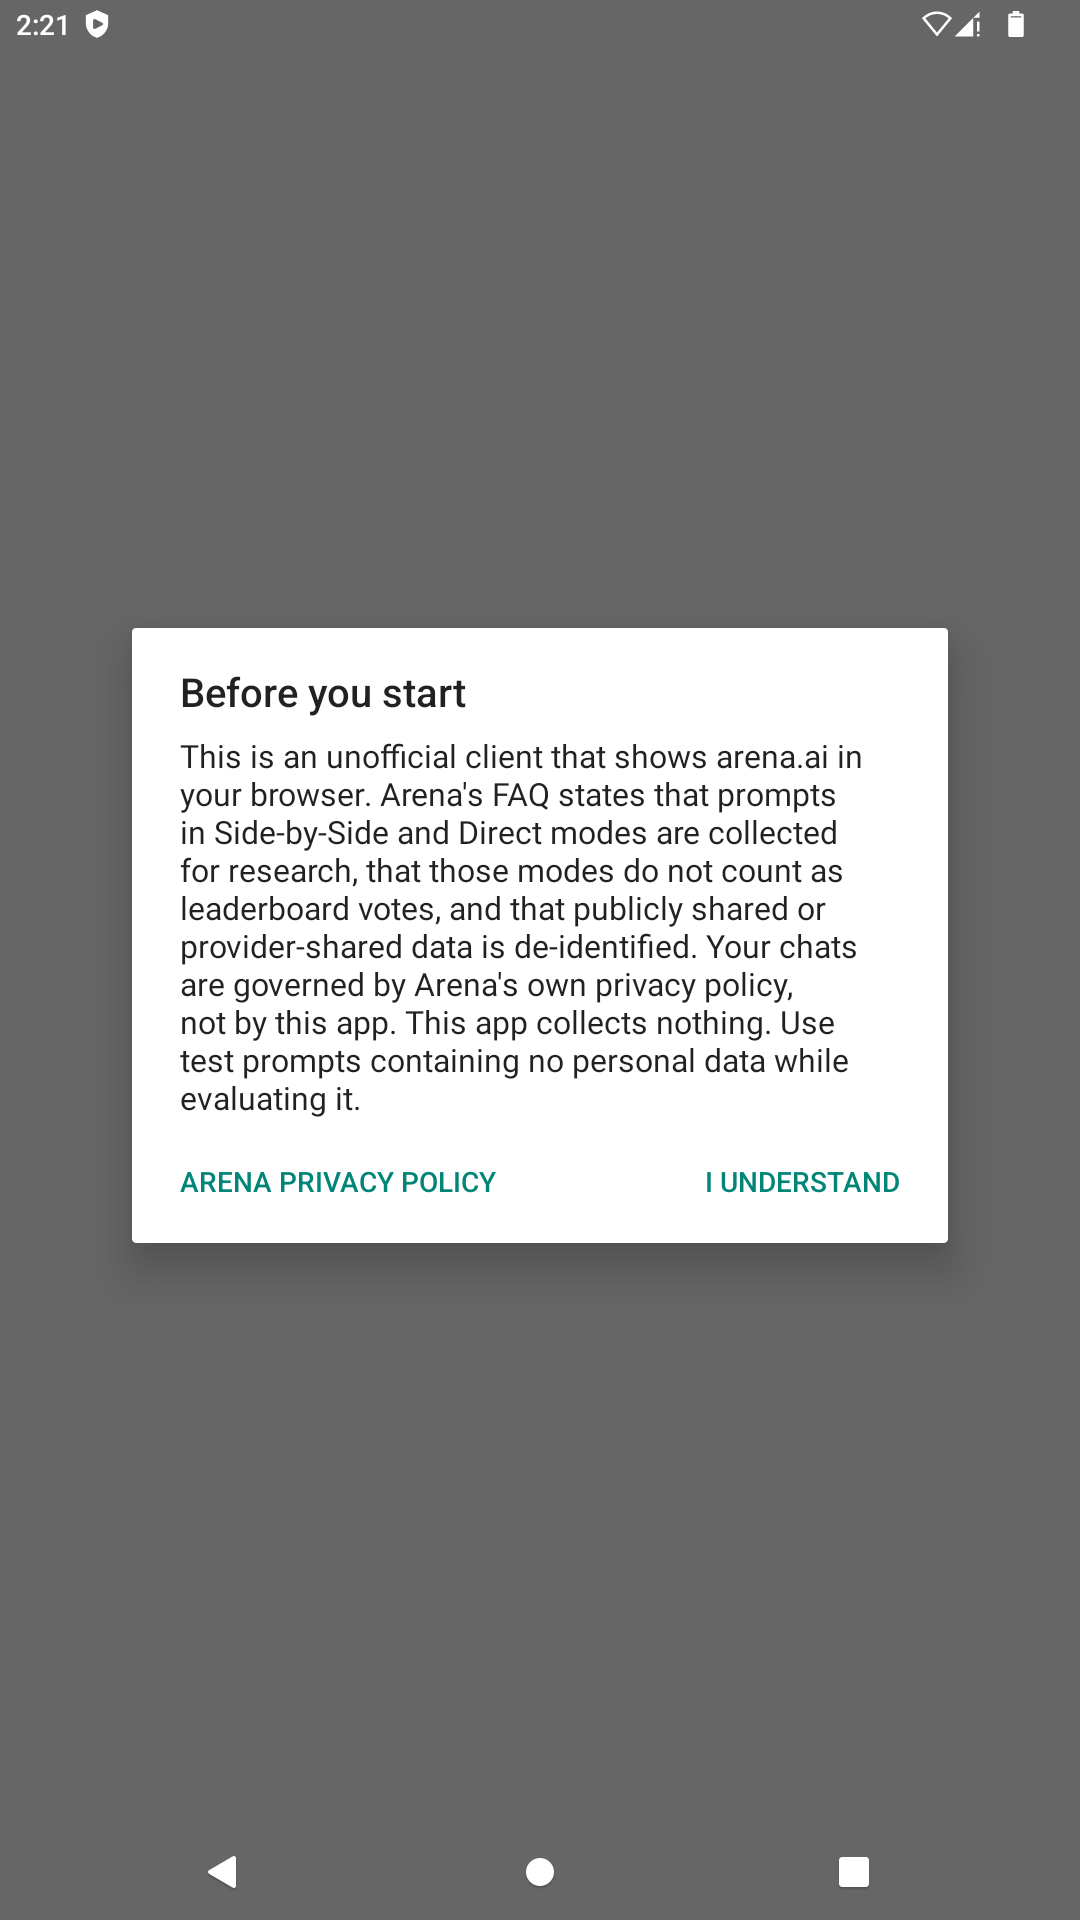
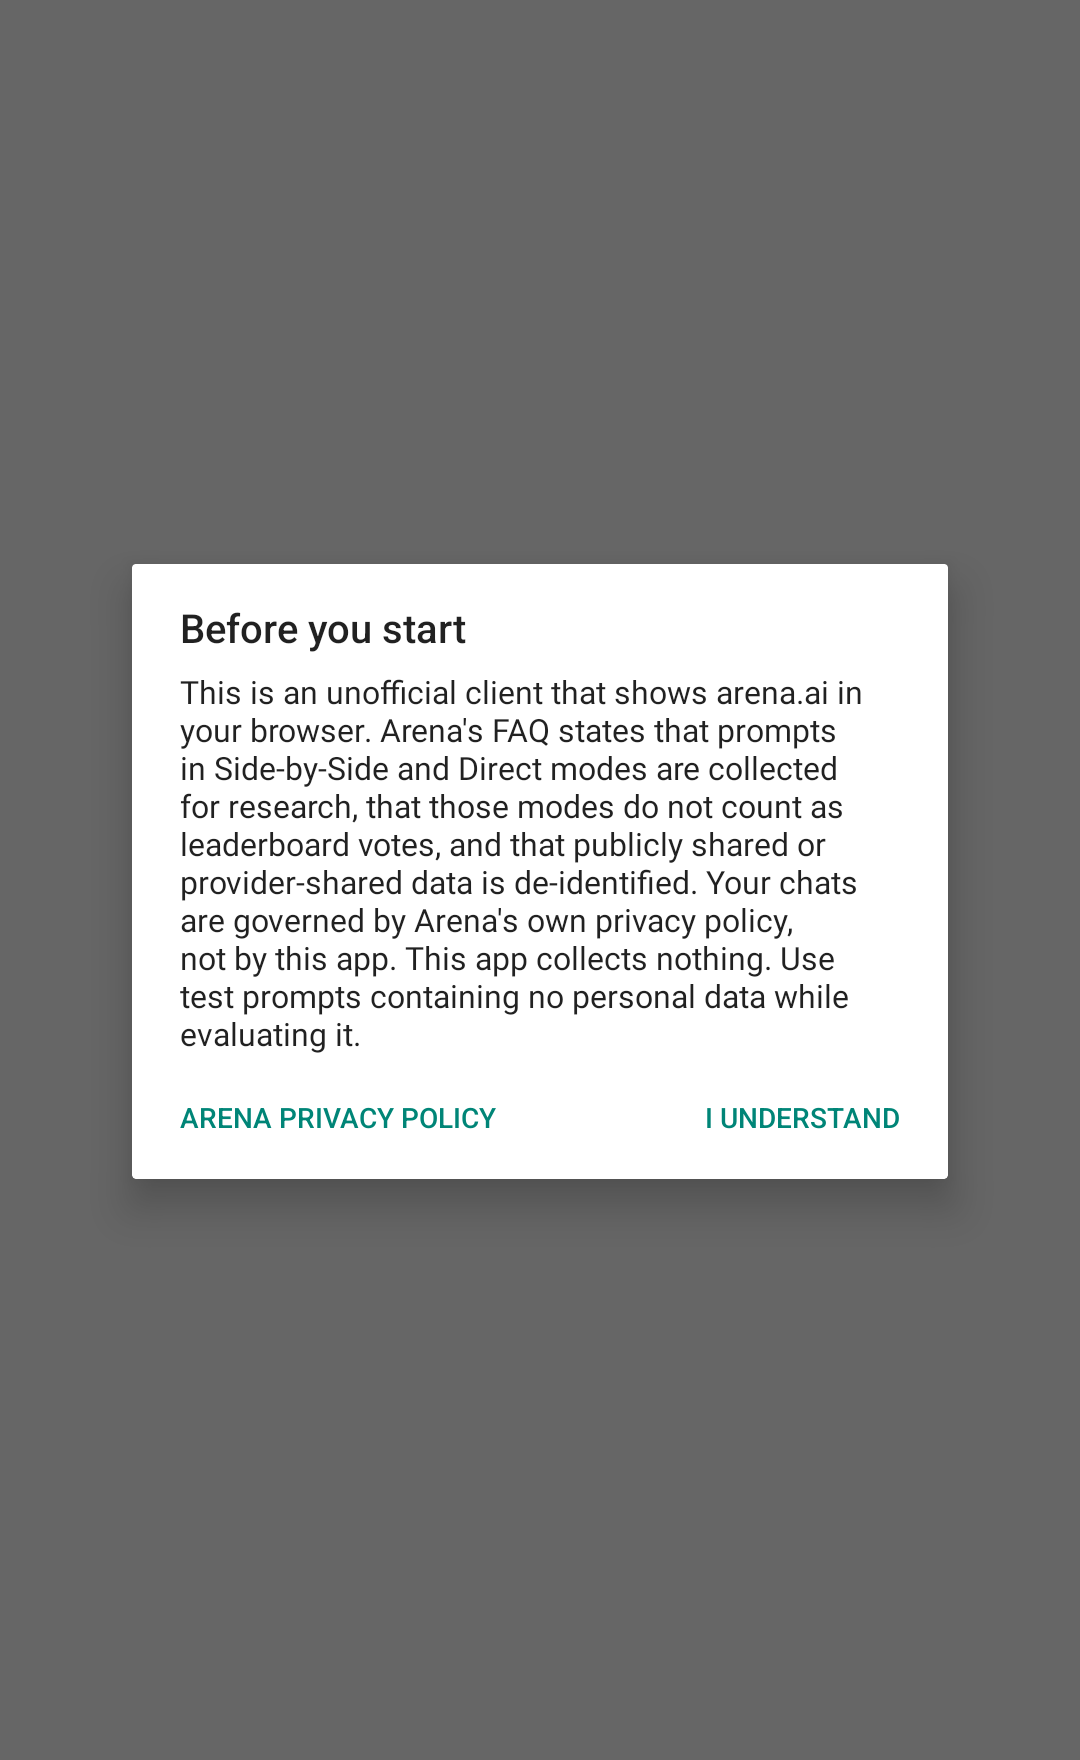
stage 0: shared debug keystore, URL hardening tests + port rule, R13 redaction, S0-09 finding

diff --git a/app/src/test/java/what/thefcuk/pankxu/UrlPolicyTest.java b/app/src/test/java/what/thefcuk/pankxu/UrlPolicyTest.java
@@ -1,6 +1,7 @@
 package what.thefcuk.pankxu;
 
 import static org.junit.Assert.assertEquals;
+import static org.junit.Assert.assertNotEquals;
 
 import org.junit.Test;
 
@@ -98,5 +99,95 @@ public class UrlPolicyTest {
         assertEquals(false, UrlPolicy.isAllowedInApp("https://help.arena.ai/"));
         assertEquals(false, UrlPolicy.isAllowedInApp("https://evil.com/"));
         assertEquals(false, UrlPolicy.isAllowedInApp("intent://x"));
+    }
+
+    // ----------------------------------------------------------------------------------
+    // S0-08 -- allow-list hardening. Each case below is a documented spoofing or parser
+    // trick, not a plausible user journey, so the expected value is written next to the
+    // rule it protects rather than in a table elsewhere.
+    // ----------------------------------------------------------------------------------
+
+    @Test
+    public void uppercaseSchemeAndHostStillMatch() {
+        assertEquals(UrlPolicy.Decision.IN_APP, UrlPolicy.classify("HTTPS://ARENA.AI/agent"));
+        assertEquals(UrlPolicy.Decision.IN_APP, UrlPolicy.classify("HtTpS://Arena.Ai/Leaderboard"));
+    }
+
+    @Test
+    public void trailingRootDotIsTheSameName() {
+        assertEquals(UrlPolicy.Decision.IN_APP, UrlPolicy.classify("https://arena.ai./agent"));
+        assertEquals(UrlPolicy.Decision.IN_APP, UrlPolicy.classify("https://ARENA.AI./chat"));
+    }
+
+    @Test
+    public void defaultHttpsPortIsFineOtherPortsAreNotLoadedInApp() {
+        assertEquals(UrlPolicy.Decision.IN_APP, UrlPolicy.classify("https://arena.ai:443/agent"));
+        // Another port on the same host is not the published entry point.
+        assertEquals(UrlPolicy.Decision.EXTERNAL, UrlPolicy.classify("https://arena.ai:8443/agent"));
+    }
+
+    @Test
+    public void backslashIsRejectedNotRepaired() {
+        // Browsers often treat \ as /; java.net.URI does not. Whatever it does, it must
+        // never end up IN_APP, because the two parsers could then disagree about the host.
+        assertNotEquals(UrlPolicy.Decision.IN_APP, UrlPolicy.classify("https://arena.ai\\@evil.example/"));
+        assertNotEquals(UrlPolicy.Decision.IN_APP, UrlPolicy.classify("https:\\\\arena.ai/agent"));
+    }
+
+    @Test
+    public void userinfoCannotMasqueradeAsArena() {
+        assertEquals(UrlPolicy.Decision.BLOCK, UrlPolicy.classify("https://arena.ai@evil.example/"));
+        assertEquals(UrlPolicy.Decision.BLOCK, UrlPolicy.classify("https://evil.example@arena.ai/"));
+        assertEquals(UrlPolicy.Decision.BLOCK, UrlPolicy.classify("https://arena.ai:pass@evil.example/"));
+    }
+
+    @Test
+    public void lookalikeDomainsAreNeverInApp() {
+        String[] lookalikes = {
+            "https://arena.ai.evil.example/",
+            "https://evilarena.ai/",
+            "https://arena.ai.evil.com/",
+            "https://notarena.ai/",
+            "https://arena-ai.example/",
+            "https://arena.ais/",
+            "https://www.arena.ai.evil.example/",
+        };
+        for (String url : lookalikes) {
+            assertEquals("must not load in app: " + url,
+                    UrlPolicy.Decision.EXTERNAL, UrlPolicy.classify(url));
+        }
+    }
+
+    @Test
+    public void nonAsciiHostsAreNeverTreatedAsArena() {
+        // Cyrillic small a (U+0430) in the first label, Cyrillic small i (U+0456) in the
+        // TLD, and fullwidth latin small a (U+FF41).
+        //
+        // The expected outcome is BLOCK, not EXTERNAL, and the reason matters:
+        // java.net.URI parses these URLs but getHost() returns null for a non-ASCII
+        // authority, so the policy cannot even name the host and refuses rather than
+        // forwarding. Android's lenient Uri.parse() disagrees - see the S0-08 note in
+        // DECISIONS.md and the on-device run of the same inputs.
+        String[] unicodeHosts = {
+            "https://\u0430rena.ai/agent",
+            "https://arena.a\u0456/agent",
+            "https://\uFF41rena.ai/agent",
+        };
+        for (String url : unicodeHosts) {
+            assertNotEquals("must never load in app: " + url,
+                    UrlPolicy.Decision.IN_APP, UrlPolicy.classify(url));
+        }
+        assertEquals(UrlPolicy.Decision.BLOCK, UrlPolicy.classify(unicodeHosts[0]));
+        assertEquals(UrlPolicy.Decision.BLOCK, UrlPolicy.classify(unicodeHosts[1]));
+    }
+
+    @Test
+    public void encodedAndDottedTricksStayOutOfTheApp() {
+        // Percent-encoded host characters are not decoded into a name we then trust.
+        assertNotEquals(UrlPolicy.Decision.IN_APP, UrlPolicy.classify("https://arena%2Eai.evil.example/"));
+        // Double trailing dots do not normalise to the apex.
+        assertNotEquals(UrlPolicy.Decision.IN_APP, UrlPolicy.classify("https://arena.ai../agent"));
+        // A leading dot is a different name.
+        assertNotEquals(UrlPolicy.Decision.IN_APP, UrlPolicy.classify("https://.arena.ai/agent"));
     }
 }

diff --git a/app/src/main/java/what/thefcuk/pankxu/UrlPolicy.java b/app/src/main/java/what/thefcuk/pankxu/UrlPolicy.java
@@ -77,6 +77,13 @@ public final class UrlPolicy {
         if (uri.getUserInfo() != null) {
             return Decision.BLOCK;
         }
+        // S0-08: only the default https port may be loaded in-app. arena.ai on another port
+        // is not arena.ai's published entry point, and letting the app frame arbitrary
+        // services on a known host is exactly the kind of allowance that ages badly.
+        final int port = uri.getPort();
+        if (port != -1 && port != 443) {
+            return Decision.EXTERNAL;
+        }
         final String host = uri.getHost();
         if (host == null) {
             return Decision.BLOCK;

diff --git a/docs/DECISIONS.md b/docs/DECISIONS.md
@@ -121,3 +121,54 @@ So `src/main` carries `what.thefcuk.pankxu`, `src/debug` overrides the same file
 `what.thefcuk.pankxu.debug`, and `scripts/check-shortcuts.py` asserts the value inside the
 built APK equals the APK's own package name. A resource-file rule that neither unit tests nor
 lint can see is now a build failure.
+
+## D-27 — No official Arena Android app exists (S0-09, checked 2026-11-08)
+
+Checked Play Store listings and Arena's public help pages on 2026-11-08. There is no
+first-party Arena / LMArena Android application. The Play listings that match the word
+"Arena" are unrelated products (an NHL venue app and an image-generator by a different
+developer), and the public help pages still describe browser access only. **No stop
+condition triggered**; the launcher remains a legitimate personal-use wrapper.
+
+Re-check at the 30-day and 90-day reviews in section 8 of the roadmap, and re-run this task
+immediately if Arena announces one.
+
+## D-28 — One committed debug keystore, because CI was minting a new key per run
+
+Consecutive CI builds could not upgrade each other: each ephemeral runner generated its own
+debug key, so `adb install -r` failed with `INSTALL_FAILED_UPDATE_INCOMPATIBLE` and every
+device test began with an uninstall that wiped app data - which also reset the first-run
+disclosure, making the first-run path untestable in isolation.
+
+`ci/debug.keystore` is now committed and wired into the `debug` build type. This is a
+deliberate, documented exception:
+
+* debug keys are not secrets - the password is the Android convention (`android`), and the
+  certificate is valid only for builds marked debuggable, which are never shipped;
+* the **release** key remains environment-variable-only and is never in the repository;
+* `.gitleaks.toml` allowlists exactly the keystore path and the two convention passwords, so a
+  real secret anywhere else still fails the secret scan.
+
+Fingerprint of the shared debug certificate (SHA-256):
+`8B:C6:CD:ED:D8:D0:5C:C5:D7:49:A6:71:C7:D7:18:F3:6A:8A:44:51:31:F6:6A:93:F7:E0:DD:35:91:20:D4:E4`
+
+This is not the release fingerprint and must never be published as one.
+
+## D-29 — S0-08 allow-list hardening: what changed and what the parser split means
+
+Added to `UrlPolicy` and its tests (18 cases, all passing on a JVM):
+
+* **Any port other than 443 is EXTERNAL.** `https://arena.ai:8443/` is not the published
+  entry point, and allowing the app to frame arbitrary services on a trusted host is an
+  allowance that ages badly.
+* Uppercase scheme and host, a single trailing root dot, and the explicit default port stay
+  IN_APP (already covered, now pinned by tests).
+* Backslash tricks, userinfo in any position, look-alikes (`arena.ai.evil.example`,
+  `evilarena.ai`, `arena-ais.example` style), percent-encoded dots, double trailing dots and a
+  leading dot are all kept out of IN_APP.
+* **Non-ASCII hosts are BLOCKed, not EXTERNAL.** `java.net.URI` returns `null` from
+  `getHost()` for a non-ASCII authority, so the policy cannot name the host and refuses.
+  Android's `Uri.parse()` is lenient and does not agree - which is why the same inputs are
+  also exercised on the device in the S0-08 device run, rather than trusting the unit test to
+  describe runtime behaviour. The two results are recorded together; if they ever diverge,
+  the device wins and the policy gets an explicit punycode/IDN check.

diff --git a/docs/qa-devices.md b/docs/qa-devices.md
@@ -1,0 +1,27 @@
+# Test devices and targets
+
+## Devices used so far
+
+| Id | Device | Image | Chrome | Google account | Used for |
+|---|---|---|---|---|---|
+| D1 | Samsung SM-G9900 (Galaxy S21 FE) | Stock Android 12, SDK 32, patch 2022-06-01, arm64-v8a, 1080x1920 @ 320dpi, locale zh-HK | **none** (only `mark.via` and WebView Shell; system WebView 95.0.4638.74) | none, Play cannot sign in | First device pass, 2026-11-08. Gate, routing, blocked schemes, shortcuts, rotation, back, 5 launch cycles |
+
+Details and evidence: `docs/qa-evidence/device-2026-11-08/`.
+
+## Devices still needed
+
+| Id | Target | Why | Owner |
+|---|---|---|---|
+| D2 | Emulator, Google Play system image, API 34 or newer | Only a Play image ships Chrome, and the TWA path (S1-02) is untestable without it. Needs a throwaway Google account to install Chrome from Play. | User (S1-01) |
+| D3 | Physical phone with Chrome, ideally the user's own | R14 says only release-APK results count toward delivery, and TWA behaviour on real hardware is what users will see | User (S1-01) |
+| D4 | Second API level (26 and 30) | minSdk is 26; the fallback chain and the theme fixes need checking on older platforms | Agent, once D2 exists |
+| D5 | Tablet or foldable | Layout sanity on a large screen; the gate is a centred LinearLayout with no size qualifiers | Agent, once D2 exists |
+
+## Rules for this list
+
+* No Chrome from unofficial APK sites (S1-01). Play Store, or a build whose signature can be
+  checked against Google's published certificate.
+* Do not record account names, serial numbers or notification content in notes or screenshots
+  (R13). Captures from D1 have had the status and navigation bars cropped for this reason.
+* Every result is tagged with the APK SHA-256 it ran on. Debug results stay in the development
+  column and never count toward delivery (R14).

diff --git a/docs/COMPATIBILITY.md b/docs/COMPATIBILITY.md
@@ -67,3 +67,18 @@ evidence, per R7. Fill these in from the device pass; the evidence goes in `docs
 | Offline shows a Retry screen | **Unverified** — coded and shipped, but this simulator would not go offline (Wi-Fi disabled and airplane mode on, `ping 8.8.8.8` still succeeded), so the screen never armed. See `docs/qa-evidence/device-2026-11-08/superseded/WHY.md` |
 | Blocked schemes show a toast and load nothing | **Pass** (2026-11-08) | seven schemes/URLs, each producing exactly one ACTIVITY START; `18-negative-matrix.txt`, `07-block-toast.png` |
 | Shortcuts open the app | **Pass** (2026-11-08) | "Open Agent" launches the gate, then arena.ai; `16-shortcut-disclosure.png`, `17-shortcut-arena.png` |
+
+## S0-04 re-baseline, 2026-11-08
+
+Every row above was re-derived from the device run rather than from intent. Rules used:
+
+* **Pass** only where a screenshot or a log from device D1 shows the behaviour.
+* **Partial** where part of the row was observed and part was not.
+* **Unverified** where the row needs sign-in, a prompt submission, offline control, or Chrome -
+  none of which device D1 can provide.
+* Nothing is marked Pass on unit-test evidence alone; the unit tests are cited as design
+  evidence, not as device evidence.
+
+Device D1 column, summary: PAR-02, PAR-04, PAR-06, PAR-09, PAR-11 Pass; PAR-05 Partial;
+PAR-01, PAR-03, PAR-07, PAR-08, PAR-10, PAR-12 Unverified. P4 rows (URL bar, splash, app
+identity, back from the TWA) remain Unverified because no TWA provider exists on D1.
